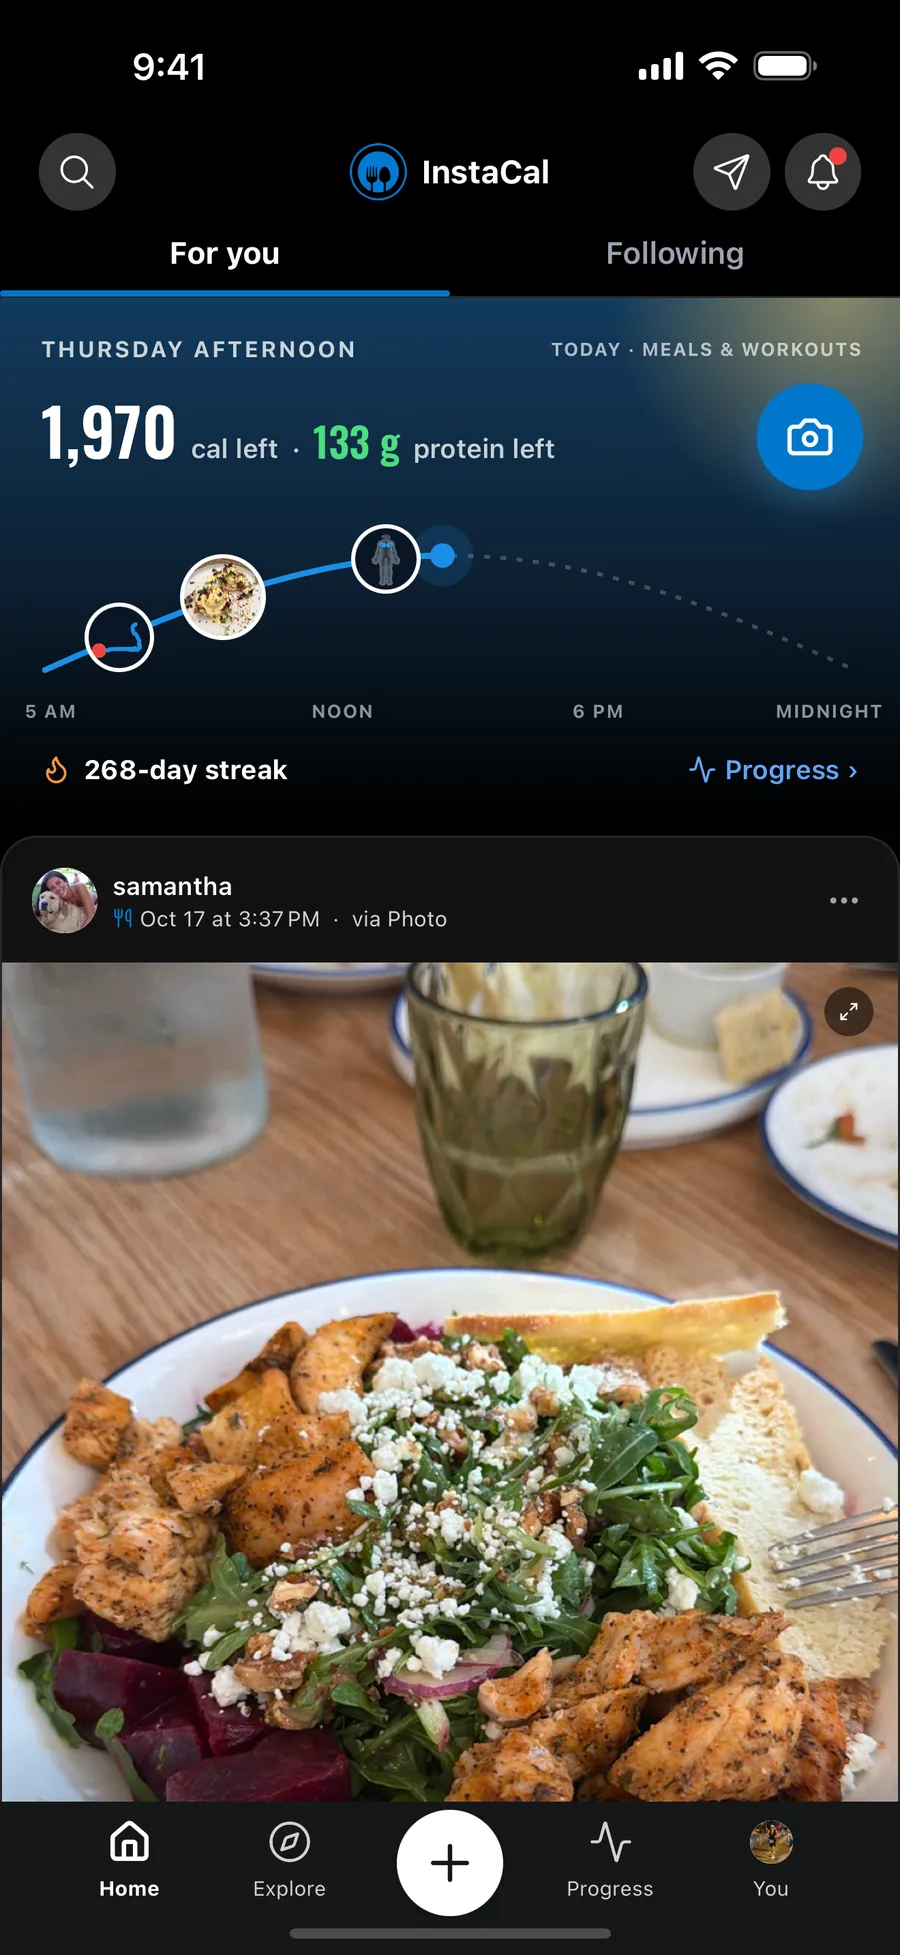
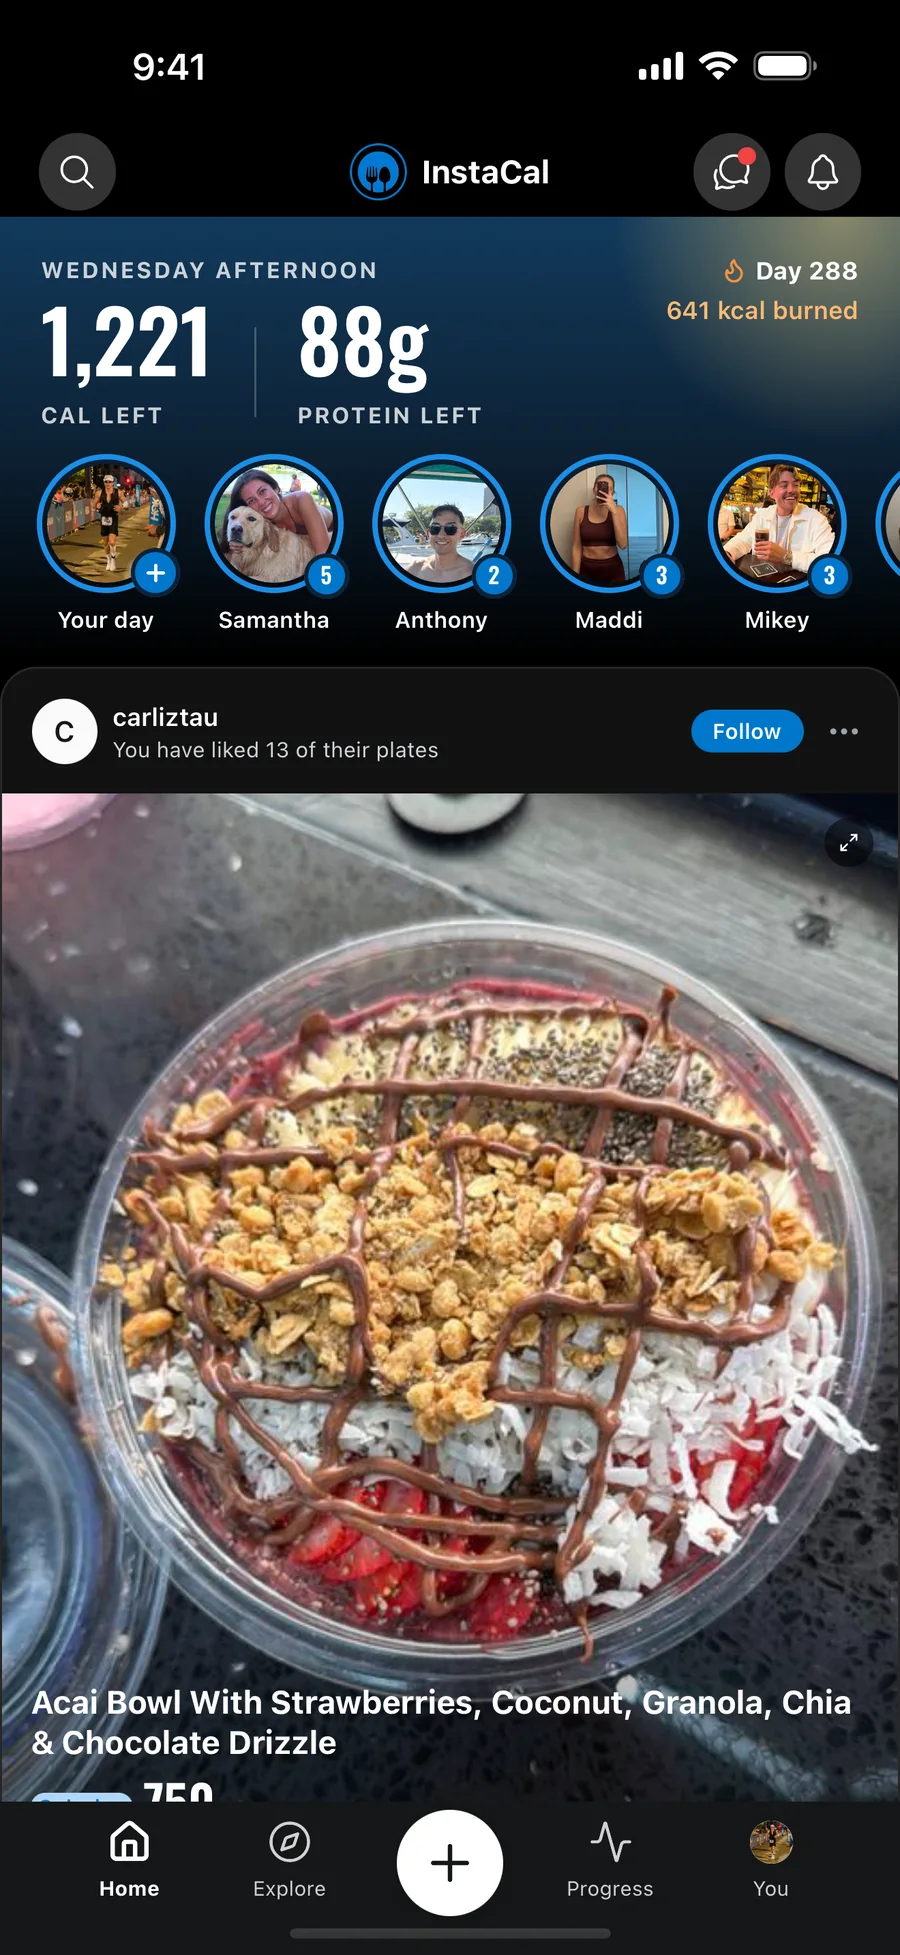
Landing page: new screenshots for 3.81, friends' days and Say it
- Home, profile and Progress recaptured (light and dark) from the 3.81 app;
  the hero phones use the new Home and profile.
- Two new tabs: Friends' days (the day viewer) and Say it (voice logging).
- Progress tab describes the one-page Progress.
- Copy that was no longer true: For You / Following tabs, Coach notes and
  recaps on the free plan, one-tap saved meals as Pro, Apple Health only.
- The four activity tabs fit a phone width.

diff --git a/src/components/landing/LandingPage.jsx b/src/components/landing/LandingPage.jsx
@@ -18,14 +18,27 @@ const socialTabs = [
     id: 'feed',
     icon: 'heart',
     title: 'Your feed. Your people.',
-    short: 'The feed',
-    copy: 'Find tomorrow’s meal idea in a friend’s lunch. Cheer on their latest workout. Keep up with your circle in Following, or discover new people in For You.',
+    short: 'Home',
+    copy: 'Open the app to what you have left today and who has logged. Under that, one feed of the best-looking plates and workouts, yours to like, save, and steal ideas from.',
     tags: [
-      'For You & Following',
+      'Your day and your friends at the top',
       'Likes, comments & saves',
       'Meals and workouts in one place',
     ],
     screen: 'feed',
+  },
+  {
+    id: 'day',
+    icon: 'circle',
+    title: 'Tap a friend. See their day.',
+    short: 'Friends’ days',
+    copy: 'Every friend who logged gets a circle. Tap one and flip through their whole day: breakfast, the run, the lift, dinner. No posting required. Logging is the post.',
+    tags: [
+      'Plates, runs and lifts, in order',
+      'Like, comment or save from any page',
+      'See who looked at your day',
+    ],
+    screen: 'day',
   },
   {
     id: 'people',
@@ -105,17 +118,38 @@ const activityTabs = [
     ),
     copy: 'Runs, rides, lifts, and everything in between. Bring your workouts into the same feed as your food, and let your people see the work.',
     features: [
-      'Connect Strava or log a workout manually',
-      'Routes, pace, distance & workout details',
-      'Apple Health integration on iPhone',
+      'Connect Strava, or log a workout by hand',
+      'Routes, pace, splits & the muscles you hit',
+      'Apple Health on iPhone, Health Connect on Android',
     ],
     note: 'Available workout details depend on the activity and connected source.',
+  },
+  {
+    id: 'sayit',
+    icon: 'mic',
+    label: 'Say it',
+    screen: 'sayIt',
+    eyebrow: 'JUST SAY IT.',
+    title: (
+      <>
+        One sentence.
+        <br />
+        Your whole <em>day.</em>
+      </>
+    ),
+    copy: 'Tell InstaCal what you ate and what you did, the way you’d tell a friend. It builds the meal, scores the workout, and shows you everything before anything is logged.',
+    features: [
+      'Meals, workouts and weigh-ins in one breath',
+      'Finds your saved meals and past plates by name',
+      'Change it by talking: “actually, just one”',
+    ],
+    note: 'Three free tries a month. Unlimited with Pro. AI nutrition values are estimates.',
   },
   {
     id: 'tracking',
     icon: 'flame',
     label: 'Progress',
-    screen: 'food',
+    screen: 'progress',
     eyebrow: 'KEEP YOUR MOMENTUM.',
     title: (
       <>
@@ -124,11 +158,11 @@ const activityTabs = [
         In <em>perspective.</em>
       </>
     ),
-    copy: 'See your food and fitness together. Keep your streak going, unlock achievements, and get context from Coach as your routine takes shape.',
+    copy: 'Food and training on one page. Calories and macros up top, then the boxes that fit how you train: weekly goals, what you burned, your miles, the muscles you hit. Hold one to make the page yours.',
     features: [
-      'Food & fitness progress at a glance',
-      'Coach notes, daily & weekly recaps',
-      'Streaks, achievements & iPhone widgets',
+      'Food & fitness progress on one page',
+      'Weekly training goals, streaks & achievements',
+      'Add, remove and reorder the boxes',
     ],
     note: 'Pro adds deeper charts, unlimited Coach chat, monthly recaps, and more.',
   },
@@ -141,7 +175,7 @@ const faqs = [
   ],
   [
     'What can I use for free?',
-    'Photo logging, food search, building meals, the social feed, stories, messages, saving meals, challenges, and everyday progress tracking are included. Pro adds features such as barcode scanning, one-tap saved-meal logging, unlimited Coach chat, deeper insights, and the full Wrapped story.',
+    'Photo logging, food search, building meals, the social feed, stories, messages, saving meals, challenges, and everyday progress tracking are included. Pro adds features such as barcode scanning, unlimited Say it, unlimited Coach chat, deeper insights, and the full Wrapped story.',
   ],
   [
     'How does the AI photo scan work?',
@@ -149,7 +183,7 @@ const faqs = [
   ],
   [
     'Can I bring my workouts into InstaCal?',
-    'Yes. Connect Strava, connect Apple Health on iPhone, or log a workout manually. Runs, rides, and lifts can sit alongside your meals, with routes and workout details when they are available from your activity.',
+    'Yes. Connect Strava, Apple Health on iPhone or Health Connect on Android, or log a workout by hand. Runs, rides, and lifts can sit alongside your meals, with routes and workout details when they are available from your activity.',
   ],
   [
     'Can I choose who sees my posts?',
@@ -157,7 +191,7 @@ const faqs = [
   ],
   [
     'What if my friends aren’t on InstaCal yet?',
-    'Start with For You and Discover to find meals, workouts, and people who share your interests. Follow the accounts you like to build your feed. Send your friends the download link when you’re ready to bring your circle over.',
+    'Start with Home and Explore to find meals, workouts, and people who share your interests. Follow the accounts you like and their days show up at the top of your Home. Send your friends the download link when you’re ready to bring your circle over.',
   ],
 ]
 
@@ -442,7 +476,7 @@ function Activity() {
           <div
             className="ic-activity-tabs"
             role="tablist"
-            aria-label="Explore food, fitness, and progress"
+            aria-label="Explore food, fitness, Say it, and progress"
             onKeyDown={(event) =>
               moveTabFocus(
                 event,
@@ -534,7 +568,7 @@ function Pricing() {
                 'Social feed, stories & messages',
                 'Photo logging, food search & meal building',
                 'Saved meals, progress & challenges',
-                'Coach notes, daily & weekly recaps',
+                'Friends’ days, weekly recaps & widgets',
               ].map((x) => (
                 <li key={x}>
                   <Icon name="check" />
@@ -560,7 +594,7 @@ function Pricing() {
               {[
                 'Everything in free',
                 'Unlimited Coach chat & deeper charts',
-                'Barcode scanning & one-tap saved meals',
+                'Barcode scanning & unlimited Say it',
                 'Full Wrapped story & monthly recaps',
               ].map((x) => (
                 <li key={x}>

diff --git a/src/components/landing/screens.js b/src/components/landing/screens.js
@@ -10,34 +10,43 @@ import lightMeal from '@/images/screenshots/current/light/meal-macros.webp'
 import darkMeal from '@/images/screenshots/current/dark/meal-macros.webp'
 import lightRun from '@/images/screenshots/current/light/workout-map.webp'
 import darkRun from '@/images/screenshots/current/dark/workout-map.webp'
-import lightFitness from '@/images/screenshots/current/light/tracking-fitness.webp'
-import darkFitness from '@/images/screenshots/current/dark/tracking-fitness.webp'
-import darkFood from '@/images/screenshots/current/dark/tracking-food.webp'
+import lightProgress from '@/images/screenshots/current/light/progress.webp'
+import darkProgress from '@/images/screenshots/current/dark/progress.webp'
+import lightDay from '@/images/screenshots/current/light/friend-day.webp'
+import darkDay from '@/images/screenshots/current/dark/friend-day.webp'
+import lightSayIt from '@/images/screenshots/current/light/say-it.webp'
+import darkSayIt from '@/images/screenshots/current/dark/say-it.webp'
 import lightWorkouts from '@/images/screenshots/current/light/workouts-grid.webp'
 import darkWorkouts from '@/images/screenshots/current/dark/workouts-grid.webp'
-import flyerProfile from '@/images/screenshots/gym-flyers/profile-light.webp'
-import flyerFeed from '@/images/screenshots/gym-flyers/social-feed-dark.webp'
+import heroProfile from '@/images/screenshots/current/light/hero-profile-full.webp'
+import heroHome from '@/images/screenshots/current/dark/hero-home-full.webp'
 
-// November 5 captures of @dylan on the 3.5x app (iPhone 16 Pro Max). The
-// light/tracking-food file is older and shows Fitness, so it stays unused.
+// November 25 captures of @dylan on the 3.81 app (iPhone 16 Pro Max), taken
+// against a local copy of the database arranged for the shots. Map, Explore,
+// the meal, the run and the workouts grid are the November 5 set.
 export const screens = {
   heroProfile: {
-    light: flyerProfile,
-    alt: 'Dylan’s InstaCal profile with story highlights and a grid of a lifting session’s muscle map, plated meals, and a 13-mile run route',
+    light: heroProfile,
+    alt: 'Dylan’s InstaCal profile with a 288-day streak, story highlights, and a grid of plated meals, a lifting session’s muscle map, and a run',
   },
   heroFeed: {
-    dark: flyerFeed,
-    alt: 'InstaCal Home with today’s calories and protein left, the day’s run, meals, and lift on a timeline, and a salad from the For you feed',
+    dark: heroHome,
+    alt: 'InstaCal Home with calories and protein left today, a 288-day streak, friends’ day circles, and an acai bowl in the feed',
   },
   feed: {
     light: lightFeed,
     dark: darkFeed,
-    alt: 'InstaCal Home with today’s calories left, a timeline of the day’s run, meals, and lift, a 268-day streak, and the For you feed',
+    alt: 'InstaCal Home with calories and protein left today, a row of friends’ day circles, and the feed under it',
+  },
+  day: {
+    light: lightDay,
+    dark: darkDay,
+    alt: 'A friend’s day in InstaCal: a grilled chicken salad with its calories and macros, one of five pages that also hold a run and a lift',
   },
   profile: {
     light: lightProfile,
     dark: darkProfile,
-    alt: 'InstaCal profile with story highlights and a grid of plated meals, a run route, and a muscle map for a lifting session',
+    alt: 'InstaCal profile with story highlights and a grid of plated meals, a run, and a muscle map for a lifting session',
   },
   map: {
     light: lightMap,
@@ -59,14 +68,15 @@ export const screens = {
     dark: darkRun,
     alt: 'A 13.4-mile run in InstaCal with its Chicago lakefront route, moving time, pace, calories burned, and heart rate',
   },
-  fitness: {
-    light: lightFitness,
-    dark: darkFitness,
-    alt: 'InstaCal Fitness progress with movement, distance, workouts, Coach, body, and routes',
+  sayIt: {
+    light: lightSayIt,
+    dark: darkSayIt,
+    alt: 'Say it in InstaCal: one sentence about a steak dinner and a 5-mile run turned into a meal with three foods and a run, ready to log',
   },
-  food: {
-    dark: darkFood,
-    alt: 'InstaCal Food progress with calories left, macro bars, days on target this week, a 268-day streak, awards, and a live challenge',
+  progress: {
+    light: lightProgress,
+    dark: darkProgress,
+    alt: 'InstaCal Progress with calories left, macro bars, weekly training goals, calories burned, days on target, run mileage, and muscles hit this week',
   },
   workouts: {
     light: lightWorkouts,

diff --git a/src/styles/landing.css b/src/styles/landing.css
@@ -1968,12 +1968,18 @@ html {
     justify-content: space-between;
     padding: 5px;
   }
+  .ic-activity-tabs {
+    gap: 2px;
+  }
+  /* Four tabs since Say it joined: tighter, and nothing may wrap or overflow. */
   .ic-activity-tabs button {
-    padding: 11px 14px;
+    padding: 11px 6px;
     justify-content: center;
-    flex: 1;
+    flex: 1 1 0;
+    min-width: 0;
     font-size: 12px;
-    gap: 7px;
+    gap: 5px;
+    white-space: nowrap;
   }
   .ic-activity-grid {
     display: flex;

diff --git a/src/components/landing/LandingUI.jsx b/src/components/landing/LandingUI.jsx
@@ -36,6 +36,8 @@ const paths = {
   lock: 'M6 10h12v11H6V10Zm2 0V6a4 4 0 0 1 8 0v4',
   plate: 'M4 2v7a3 3 0 0 0 6 0V2M7 2v20M19 2c-3 3-4 6-4 10h4m0-10v20',
   search: 'm21 21-5-5M18 10a8 8 0 1 1-16 0 8 8 0 0 1 16 0Z',
+  mic: 'M12 2a3 3 0 0 0-3 3v7a3 3 0 0 0 6 0V5a3 3 0 0 0-3-3Zm7 8v2a7 7 0 0 1-14 0v-2m7 9v3',
+  circle: 'M12 3a9 9 0 1 0 0 18 9 9 0 0 0 0-18Zm0 5a4 4 0 1 0 0 8 4 4 0 0 0 0-8Z',
 }
 
 export function Icon({ name, className = '', filled = false, ...props }) {
